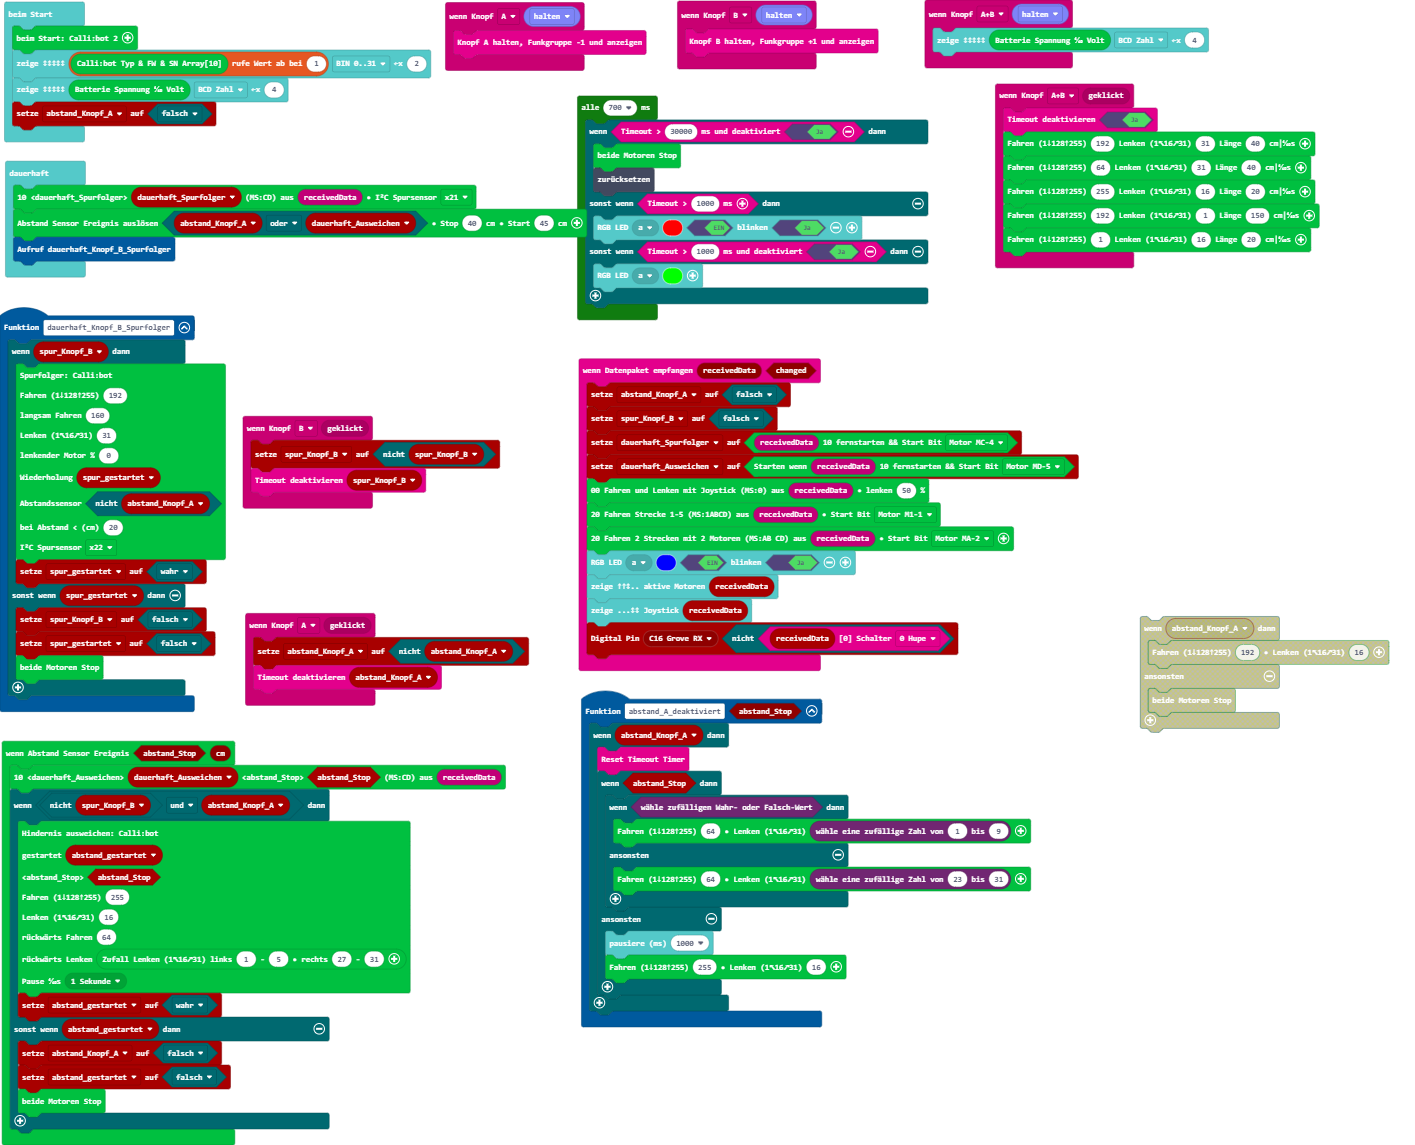
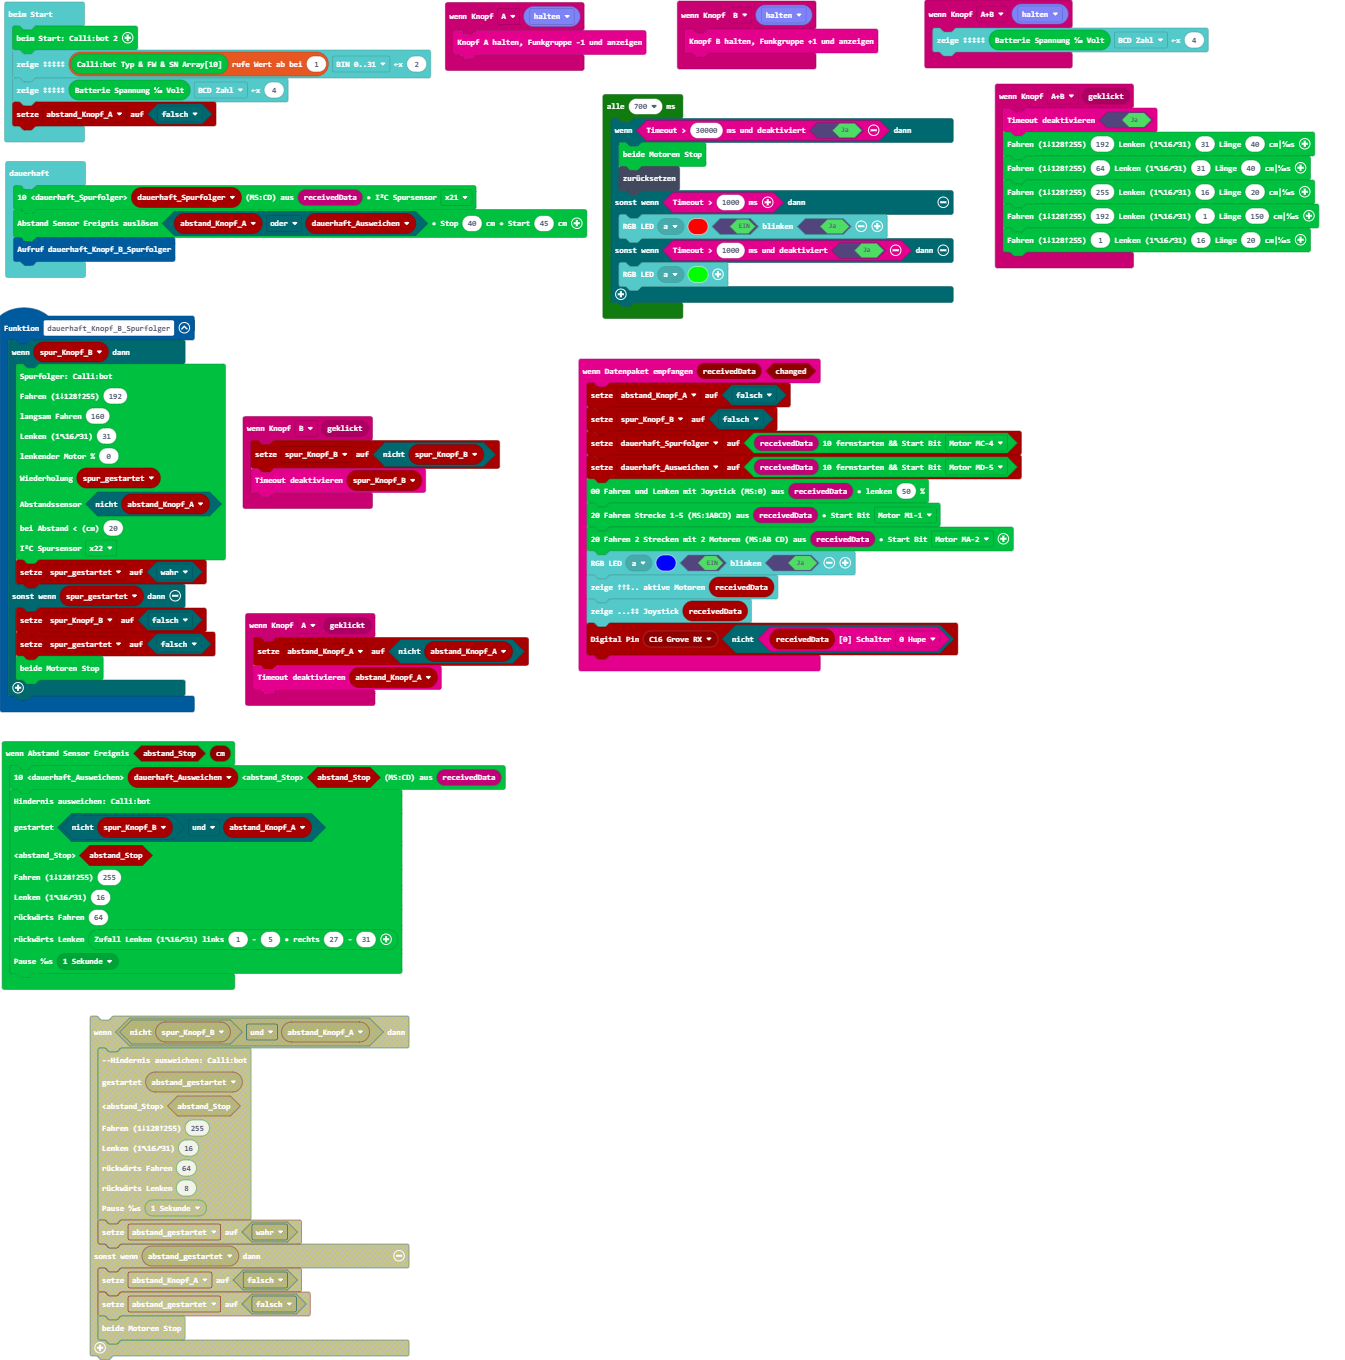
Aktualisiere pxt.json, main.blocks, main.ts

diff --git a/main.ts b/main.ts
@@ -1,18 +1,3 @@
-function abstand_A_deaktiviert (abstand_Stop: boolean) {
-    if (abstand_Knopf_A) {
-        btf.reset_timer()
-        if (abstand_Stop) {
-            if (Math.randomBoolean()) {
-                cb2.writeMotor128Servo16(64, randint(1, 9))
-            } else {
-                cb2.writeMotor128Servo16(64, randint(23, 31))
-            }
-        } else {
-            basic.pause(1000)
-            cb2.writeMotor128Servo16(255, 16)
-        }
-    }
-}
 input.onButtonEvent(Button.AB, btf.buttonEventValue(ButtonEvent.Hold), function () {
     btf.zeigeBIN(cb2.readSpannung(), btf.ePlot.bcd, 4)
 })
@@ -50,22 +35,15 @@ btf.onReceivedDataChanged(function (receivedData, changed) {
 })
 cb2.onStopEvent(function (abstand_Stop, cm) {
     cb2.dauerhaft_AbstandAusweichen(dauerhaft_Ausweichen, abstand_Stop, btf.btf_receivedBuffer19())
-    if (!(spur_Knopf_B) && abstand_Knopf_A) {
-        cb2.beispielAbstandAusweichen(
-        abstand_gestartet,
-        abstand_Stop,
-        255,
-        16,
-        64,
-        cb2.zufallServo16(1, 5, 27, 31),
-        cb2.cb2_zehntelsekunden(btf.ePause.s1)
-        )
-        abstand_gestartet = true
-    } else if (abstand_gestartet) {
-        abstand_Knopf_A = false
-        abstand_gestartet = false
-        cb2.writeMotorenStop()
-    }
+    cb2.lokalAbstandAusweichen(
+    !(spur_Knopf_B) && abstand_Knopf_A,
+    abstand_Stop,
+    255,
+    16,
+    64,
+    cb2.zufallServo16(1, 5, 27, 31),
+    cb2.cb2_zehntelsekunden(btf.ePause.s1)
+    )
 })
 function dauerhaft_Knopf_B_Spurfolger () {
     if (spur_Knopf_B) {
@@ -90,7 +68,6 @@ input.onButtonEvent(Button.A, btf.buttonEventValue(ButtonEvent.Hold), function (
     btf.buttonAhold()
 })
 let spur_gestartet = false
-let abstand_gestartet = false
 let dauerhaft_Ausweichen = false
 let dauerhaft_Spurfolger = false
 let spur_Knopf_B = false
